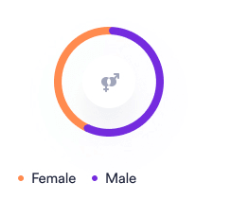
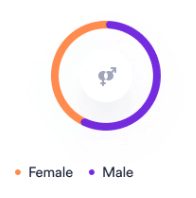
content changes

diff --git a/index.html b/index.html
@@ -150,7 +150,7 @@
                       <input type="text" placeholder="Search..." class="w-full bg-transparent text-sm pl-3 pr-4 focus:outline-none">
                     </div>
              </div>
-          <div class="flex items-center relative  gap-3 px-4 text-gray-400">
+          <div class="flex items-center gap-3 px-4 text-gray-400">
             
               <div class="flex">
               <svg xmlns="http://www.w3.org/2000/svg" width="20" height="20" fill="currentColor" class="bi bi-bell-fill" viewBox="0 0 16 16">
@@ -252,6 +252,159 @@
             </div>
           </div>
         </div>
-  
+      </div>
+     </div>
+      <!--contentbetween-->
+      <div class=" w-full mt-5 ">
+        <div class="flex flex-wrap ">
+          <div class="flex flex-col lg:flex-row space-y-4 lg:space-y-0 lg:space-x-4 w-full">
+            <div class="w-full lg:w-3/4 2xl:w-2/3 bg-white rounded-lg ">
+              <div class="flex items-center justify-between gap-3 ">
+                <div>
+                  <p class="flex text-gray-800  fontsze lg:text-xs font-bold  pl-2 xl:pl-8 lg:pl-6 md:pl-6 ">
+                    Outpatients vs. Inpatient Trend</p>
+                </div>
+            <div class="flex align-center text-gray-600 text-xs p-4 space-x-2">
+                <p>Show <span class="text-gray-800  text-xs lg:text-xs font-bold">by months</span></p>
+                
+                <svg xmlns="http://www.w3.org/2000/svg" width="14" height="14" fill="currentColor" class="mt-1" class="bi bi-chevron-down" viewBox="0 0 16 16">
+                  <path fill-rule="evenodd" d="M1.646 4.646a.5.5 0 0 1 .708 0L8 10.293l5.646-5.647a.5.5 0 0 1 .708.708l-6 6a.5.5 0 0 1-.708 0l-6-6a.5.5 0 0 1 0-.708"/>
+                </svg>
+            
+              </div>
+           </div>
+           <hr>
+           <img src="./images/graph.JPG" alt="Outpatients vs. Inpatient Trend"> 
+             
+          </div>
+          <div class="w-full lg:w-1/4 2xl:w-1/3 bg-white rounded-lg flex flex-col items-center">
+            <div class="flex flex-col justify-between w-full">
+                <div>
+                    <p class="flex justify-center items-center fontsze lg:text-xs font-bold p-4 pl-6">Patients By Gender</p>
+                </div>
+                <hr class="w-full">
+                <div class="flex justify-center w-full">
+                    <img src="./images/graph2.png" alt="Patients By Gender">
+                </div>
+            </div>
+        </div>
+        
+        </div>
+</div>
+      </div>
+        <!--contentend-->
+        <div class=" w-full mt-5 ">
+          <div class="flex flex-wrap ">
+            <div class="flex flex-col lg:flex-row space-y-4 lg:space-y-0 lg:space-x-4 w-full">
+              <div class="w-full lg:w-2/4 2xl:w-2/3 bg-white rounded-lg ">
+                <div class="flex items-center justify-between">
+                  <div>
+                    <p class="flex text-gray-800  fontsze lg:text-xs font-bold  pl-2 xl:pl-8 lg:pl-6 md:pl-6 ">
+                      Outpatients vs. Inpatient Trend</p>
+                  </div>
+              <div class="flex align-center text-gray-600 text-xs p-4 space-x-2">
+                  <p>Show <span class="text-gray-800  text-xs lg:text-xs font-bold">by months</span></p>
+                  
+                  <svg xmlns="http://www.w3.org/2000/svg" width="14" height="14" fill="currentColor" class="mt-1" class="bi bi-chevron-down" viewBox="0 0 16 16">
+                    <path fill-rule="evenodd" d="M1.646 4.646a.5.5 0 0 1 .708 0L8 10.293l5.646-5.647a.5.5 0 0 1 .708.708l-6 6a.5.5 0 0 1-.708 0l-6-6a.5.5 0 0 1 0-.708"/>
+                  </svg>
+              
+                </div>
+             </div>
+             <hr>
+             <img src="./images/graph3.png" alt="Outpatients vs. Inpatient Trend"> 
+               
+            </div>
+            <div class="w-full lg:w-1/4 2xl:w-1/3 py-4 bg-white rounded-lg flex flex-col ">
+              <div class="flex justify-between  text-gray-600 text-xs p-4 space-x-2">
+               <p class="text-gray-800  text-xs lg:text-xs font-bold">Patients By Division</p>
+                
+                <svg xmlns="http://www.w3.org/2000/svg" width="14" height="14" fill="currentColor" class="mt-1" class="bi bi-chevron-down" viewBox="0 0 16 16">
+                  <path fill-rule="evenodd" d="M1.646 4.646a.5.5 0 0 1 .708 0L8 10.293l5.646-5.647a.5.5 0 0 1 .708.708l-6 6a.5.5 0 0 1-.708 0l-6-6a.5.5 0 0 1 0-.708"/>
+                </svg>
+            
+              </div>
+              <hr class="w-full">
+         
+              <div class="flex justify-between pb-6 px-2 pt-2 text-gray-600 hover:text-violet-600">
+               <div class="flex align-center text-gray-500 space-x-2">
+                <div class="flex align-center text-gray-400">
+                  <svg xmlns="http://www.w3.org/2000/svg" width="16" height="16" fill="currentColor" class="bi bi-house-door-fill" viewBox="0 0 16 16">
+                    <path d="M6.5 14.5v-3.505c0-.245.25-.495.5-.495h2c.25 0 .5.25.5.5v3.5a.5.5 0 0 0 .5.5h4a.5.5 0 0 0 .5-.5v-7a.5.5 0 0 0-.146-.354L13 5.793V2.5a.5.5 0 0 0-.5-.5h-1a.5.5 0 0 0-.5.5v1.293L8.354 1.146a.5.5 0 0 0-.708 0l-6 6A.5.5 0 0 0 1.5 7.5v7a.5.5 0 0 0 .5.5h4a.5.5 0 0 0 .5-.5"/>
+                  </svg>
+                </div>
+                <div>
+                  <p class="text-xs lg:text-xs font-semibold">DIVISION</p>
+                </div>
+                </div>
+                  <div class="flex align-center text-xs ">
+                    <p>PT.</p>
+                  </div>
+               </div>
+              
+               <div class="flex justify-between py-2 px-2 text-gray-600 hover:text-violet-600">
+                <div class="flex align-center text-gray-500 space-x-2">
+                 <div class="flex align-center text-gray-400">
+                  <svg xmlns="http://www.w3.org/2000/svg" width="16" height="16" fill="currentColor" class="bi bi-heart-pulse-fill" viewBox="0 0 16 16">
+                    <path d="M1.475 9C2.702 10.84 4.779 12.871 8 15c3.221-2.129 5.298-4.16 6.525-6H12a.5.5 0 0 1-.464-.314l-1.457-3.642-1.598 5.593a.5.5 0 0 1-.945.049L5.889 6.568l-1.473 2.21A.5.5 0 0 1 4 9z"/>
+                    <path d="M.88 8C-2.427 1.68 4.41-2 7.823 1.143q.09.083.176.171a3 3 0 0 1 .176-.17C11.59-2 18.426 1.68 15.12 8h-2.783l-1.874-4.686a.5.5 0 0 0-.945.049L7.921 8.956 6.464 5.314a.5.5 0 0 0-.88-.091L3.732 8z"/>
+                  </svg>
+                 </div>
+                 <div>
+                   <p class="text-xs lg:text-xs font-semibold">Cardiology</p>
+                 </div>
+                 </div>
+                   <div class="flex align-center text-xs ">
+                     <p class="text-black font-bold">247</p>
+                   </div>
+                </div>
+                <div class="flex justify-between py-2 px-2">
+                  <div class="flex align-center text-gray-500  hover:text-violet-600 space-x-2">
+                   <div class="flex align-center text-gray-400">
+                    <svg xmlns="http://www.w3.org/2000/svg" width="16" height="16" fill="currentColor" class="bi bi-person-fill-add" viewBox="0 0 16 16">
+                      <path d="M12.5 16a3.5 3.5 0 1 0 0-7 3.5 3.5 0 0 0 0 7m.5-5v1h1a.5.5 0 0 1 0 1h-1v1a.5.5 0 0 1-1 0v-1h-1a.5.5 0 0 1 0-1h1v-1a.5.5 0 0 1 1 0m-2-6a3 3 0 1 1-6 0 3 3 0 0 1 6 0"/>
+                      <path d="M2 13c0 1 1 1 1 1h5.256A4.5 4.5 0 0 1 8 12.5a4.5 4.5 0 0 1 1.544-3.393Q8.844 9.002 8 9c-5 0-6 3-6 4"/>
+                    </svg>
+                   </div>
+                   <div>
+                     <p class="text-xs lg:text-xs font-semibold">Neurology</p>
+                   </div>
+                   </div>
+                     <div class="flex align-center text-xs ">
+                       <p class="text-black font-bold">164</p>
+                     </div>
+                  </div>
+                  <div class="flex justify-between py-2 px-2 text-gray-600 hover:text-violet-600">
+                    <div class="flex align-center text-gray-500 space-x-2">
+                     <div class="flex align-center text-gray-400">
+                      <svg xmlns="http://www.w3.org/2000/svg" width="16" height="16" fill="currentColor" class="bi bi-scissors" viewBox="0 0 16 16">
+                        <path d="M3.5 3.5c-.614-.884-.074-1.962.858-2.5L8 7.226 11.642 1c.932.538 1.472 1.616.858 2.5L8.81 8.61l1.556 2.661a2.5 2.5 0 1 1-.794.637L8 9.73l-1.572 2.177a2.5 2.5 0 1 1-.794-.637L7.19 8.61zm2.5 10a1.5 1.5 0 1 0-3 0 1.5 1.5 0 0 0 3 0m7 0a1.5 1.5 0 1 0-3 0 1.5 1.5 0 0 0 3 0"/>
+                      </svg>
+                     </div>
+                     <div>
+                       <p class="text-xs lg:text-xs font-semibold">Surgery</p>
+                     </div>
+                     </div>
+                       <div class="flex align-center text-xs ">
+                         <p class="text-black font-bold">86</p>
+                       </div>
+      
+          </div>
+        </div>
+    
+            <div class="w-full lg:w-1/4 2xl:w-1/3 bg-purple-700 rounded-lg ">
+           
+                
+                  <div class="flex justify-center w-full rounded-lg">
+                      <img src="./images/graph4.png" alt="Patients By Gender">
+                  </div>
+              </div>
+            
+           
+        
+         
+  </div>
+        </div>
+       
 </body>
 </html>

diff --git a/output.css b/output.css
@@ -39,7 +39,9 @@ margin-right: 20px;
 6. Use the user's configured `sans` font-variation-settings by default.
 7. Disable tap highlights on iOS
 */
-
+.fontsze{
+  font-size: 10px;
+}
 html,
 :host {
   line-height: 1.5;
